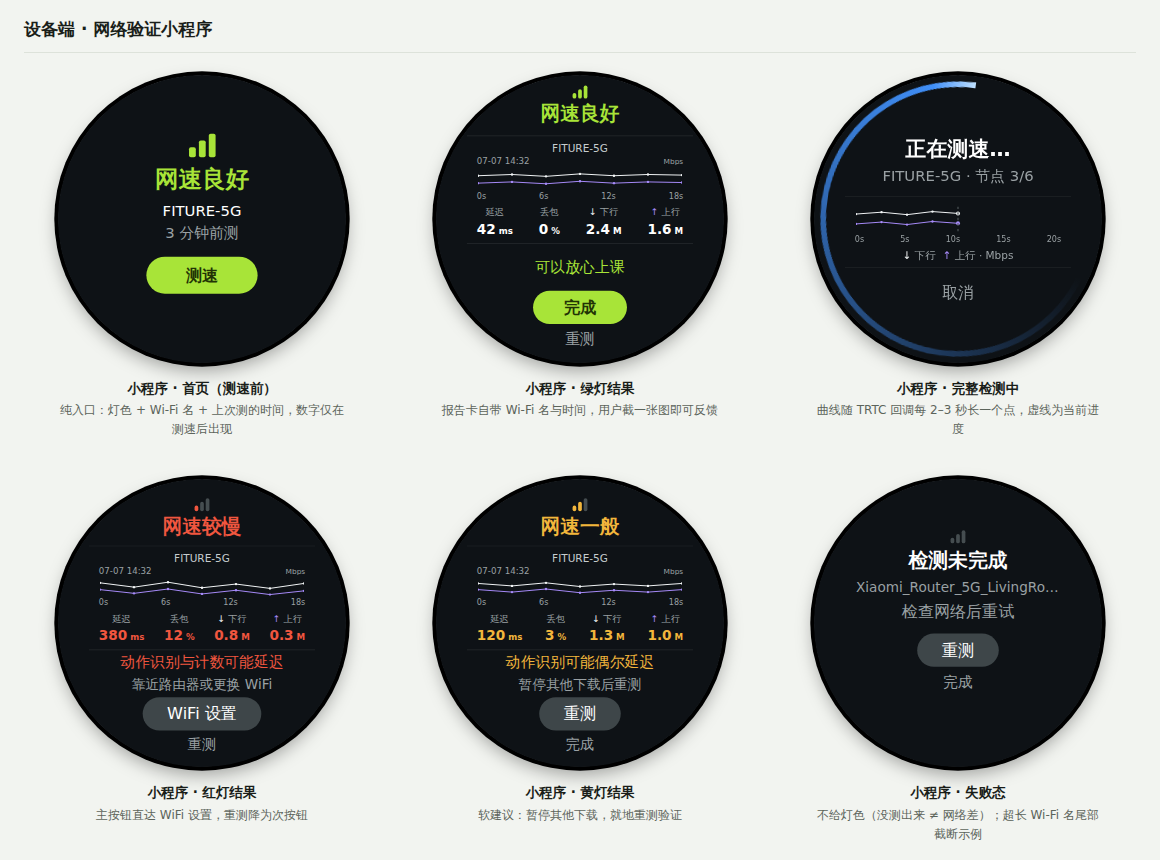
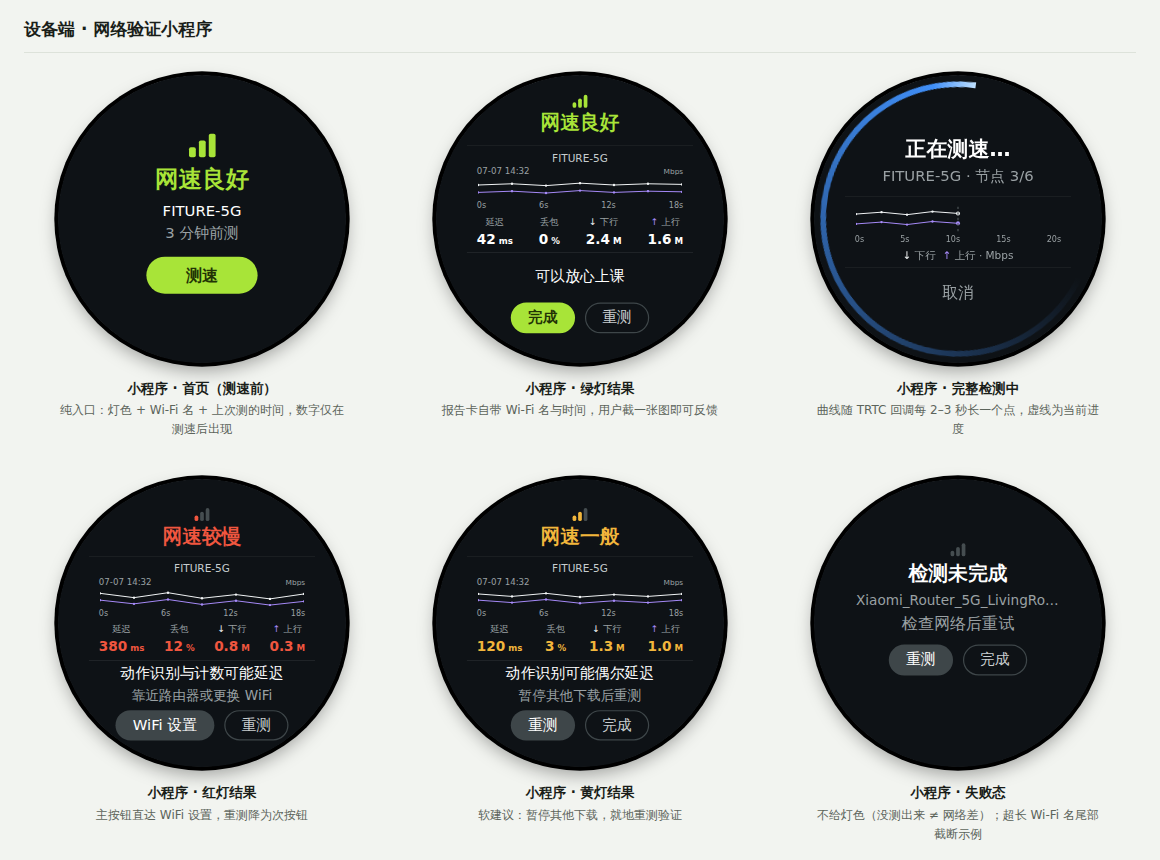
Side-by-side action buttons; impact copy loses its color
- Primary (filled, left) + secondary (ghost outline, right) replace
  the stacked button + text link, saving a row of height; row font 24
  and lifted spacing so the EN "Wi-Fi Settings / Retest" pair clears
  the round bezel
- Impact lines (Ready for class / may-lag warnings) render plain
  white: the colored title already carries the verdict, so color
  stays reserved for the conclusion and out-of-threshold metrics only

Claude-Session: https://claude.ai/code/session_01GK61VJL6HvXSFdCeuPzjiU

diff --git a/Demo-界面交互UI设计.html b/Demo-界面交互UI设计.html
@@ -104,6 +104,10 @@
   .metrics .k { font-size: 22px; color: var(--dev-sub); margin-top: 2px; }
   .advice { font-size: 26px; color: var(--dev-sub); margin-top: 12px; text-align: center; width: 340px; line-height: 1.45; }
   .btn { margin-top: 16px; background: var(--dev-card); border-radius: 99px; font-size: 26px; padding: 12px 42px; }
+  .btn-row { display: flex; gap: 16px; margin-top: 4px; }
+  .btn-row .btn { margin-top: 0; font-size: 24px; padding: 8px 28px; }
+  .btn.ghost { background: transparent; border: 2px solid var(--dev-card); color: #c9ced0; }
+  .btn-row .btn.ghost { padding: 6px 26px; }
   .btn.primary { background: var(--dev-good); color: #223305; font-weight: 600; }
 
   .class-bg { position: absolute; inset: 0; background: radial-gradient(circle at 50% 62%, #24313a 0%, #131a1f 55%, #0e1216 100%); }
@@ -303,10 +307,9 @@
             <div><div class="k"><span style="color:#a78bfa">↑</span> <span data-en="Up">上行</span></div><div class="v">1.6<span> M</span></div></div>
           </div>
           </div>
-        <div class="rc-notes"><div style="font-size:24px; color:var(--dev-good)" data-en="Ready for class">可以放心上课</div></div>
-        <div class="btn primary" style="margin-top:0; padding:9px 50px" data-en="Done">完成</div>
-        <div style="font-size:24px; color:var(--dev-sub); margin-top:8px" data-en="Retest">重测</div>
-        <div style="flex:.66"></div>
+        <div class="rc-notes"><div style="font-size:24px" data-en="Ready for class">可以放心上课</div></div>
+        <div class="btn-row"><div class="btn primary" data-en="Done">完成</div><div class="btn ghost" data-en="Retest">重测</div></div>
+        <div style="flex:.78"></div>
       </div></div>
       <figcaption><b>小程序 · 绿灯结果</b><span>报告卡自带 Wi-Fi 名与时间，用户截一张图即可反馈</span></figcaption>
     </figure>
@@ -341,11 +344,10 @@
             <div><div class="k"><span style="color:#a78bfa">↑</span> <span data-en="Up">上行</span></div><div class="v" style="color:var(--dev-bad)">0.3<span> M</span></div></div>
           </div>
           </div>
-        <div class="rc-notes"><div style="font-size:24px; color:var(--dev-bad)" data-en="Tracking & counting may lag">动作识别与计数可能延迟</div>
+        <div class="rc-notes"><div style="font-size:24px" data-en="Tracking & counting may lag">动作识别与计数可能延迟</div>
         <div class="advice" style="margin-top:3px; font-size:22px; width:370px" data-en="Move closer or switch Wi-Fi">靠近路由器或更换 WiFi</div></div>
-        <div class="btn" style="margin-top:0; padding:9px 40px" data-en="Wi-Fi Settings">WiFi 设置</div>
-        <div style="font-size:23px; color:var(--dev-sub); margin-top:6px" data-en="Retest">重测</div>
-        <div style="flex:.52"></div>
+        <div class="btn-row"><div class="btn" data-en="Wi-Fi Settings">WiFi 设置</div><div class="btn ghost" data-en="Retest">重测</div></div>
+        <div style="flex:.7"></div>
       </div></div>
       <figcaption><b>小程序 · 红灯结果</b><span>主按钮直达 WiFi 设置，重测降为次按钮</span></figcaption>
     </figure>
@@ -364,11 +366,10 @@
             <div><div class="k"><span style="color:#a78bfa">↑</span> <span data-en="Up">上行</span></div><div class="v" style="color:var(--dev-warn)">1.0<span> M</span></div></div>
           </div>
           </div>
-        <div class="rc-notes"><div style="font-size:24px; color:var(--dev-warn)" data-en="Pose tracking may lag at times">动作识别可能偶尔延迟</div>
+        <div class="rc-notes"><div style="font-size:24px" data-en="Pose tracking may lag at times">动作识别可能偶尔延迟</div>
         <div class="advice" style="margin-top:3px; font-size:22px; width:370px" data-en="Pause other downloads, retest">暂停其他下载后重测</div></div>
-        <div class="btn" style="margin-top:0; padding:9px 40px" data-en="Retest">重测</div>
-        <div style="font-size:23px; color:var(--dev-sub); margin-top:6px" data-en="Done">完成</div>
-        <div style="flex:.52"></div>
+        <div class="btn-row"><div class="btn" data-en="Retest">重测</div><div class="btn ghost" data-en="Done">完成</div></div>
+        <div style="flex:.7"></div>
       </div></div>
       <figcaption><b>小程序 · 黄灯结果</b><span>软建议：暂停其他下载，就地重测验证</span></figcaption>
     </figure>
@@ -380,8 +381,7 @@
         <div class="big-status" style="font-size:32px; margin-top:6px" data-en="Test incomplete">检测未完成</div>
         <div style="font-size:22px; color:var(--dev-sub); margin-top:6px; max-width:330px; overflow:hidden; text-overflow:ellipsis; white-space:nowrap">Xiaomi_Router_5G_LivingRoom_2401</div>
         <div class="advice" style="margin-top:4px" data-en="Check network and retry">检查网络后重试</div>
-        <div class="btn" style="margin-top:16px; padding:9px 40px" data-en="Retest">重测</div>
-        <div style="font-size:24px; color:var(--dev-sub); margin-top:9px" data-en="Done">完成</div>
+        <div class="btn-row" style="margin-top:14px"><div class="btn" data-en="Retest">重测</div><div class="btn ghost" data-en="Done">完成</div></div>
         <div style="flex:1"></div>
       </div></div>
       <figcaption><b>小程序 · 失败态</b><span>不给灯色（没测出来 ≠ 网络差）；超长 Wi-Fi 名尾部截断示例</span></figcaption>

diff --git a/PRD-atom网络状态检测与信号同步.md b/PRD-atom网络状态检测与信号同步.md
@@ -118,7 +118,7 @@ ATOM 是一台通过 WiFi 联网的嵌入式训练设备，上课时通过 TRTC 
 
 - **A4.1 首页 = 纯入口（测速前）**：灯色 bars + 一句话结论 + **当前 Wi-Fi 名（SSID）** + 副行数据时效（「刚刚更新」≤60 秒 /「N 分钟前测」≤5 分钟）+ 主按钮「测速」。SSID 必须外显——用户点进来看「网好不好」时往往不知道自己连的是哪个 WiFi，灯色结论必须挂在具体网络名下才可归因（与 B2 按 SSID 缓存一致）。**不展示任何数字指标**——常驻探测没有真实带宽，数字只在测速后出现，「测速前 = 入口、测速后 = 报告」天然可区分；缓存超 5 分钟不显示旧灯色，直接「检测中…」并刷新；
 - **A4.2 检测中**：标题「正在测速…」+ 副行「Wi-Fi: {SSID} · 节点 N / M」（按官方回调驱动，不做假进度）+ 报告卡内波形实时生长（↓ 灰白 = 下行、↑ 紫 = 上行，见 A4.7）+「取消」（调用 `stopSpeedTest`）；按钮防重入（官方限制同一时间仅一个测速任务）；
-- **A4.3 结果页信息分组（四组，组间距 > 组内距）**：① 结论（bars + 一句话，**标题文字直接用灯色着色**——绿「网速良好」/ 黄「网速一般」/ 红「网速较慢」，四态位置与字号完全一致；去掉状态色环后页面需要一个明确的主视觉色，结论标题是最佳载体：位置最高、字号最大、语义即结论；失败态标题保持白色——没测出来不给灯色）→ ② **报告卡**，卡内自上而下：**表头两行——第 1 行 SSID（超长截断）、第 2 行日期时间（独占一行，永不被 SSID 挤掉）**，不加「Wi-Fi:」前缀（上下文已明确，标签属冗余；带日期是为了反馈截图能和后端日志对上，方便 debug）→ 波形定格 + 时间轴（表头第二行两端对齐：**日期时间靠左、单位「Mbps」靠右**——曲线纵轴 = 上下行带宽，不占额外行高；检测中页无表头，单位并入图例行「↓ 下行 ↑ 上行 · Mbps」）→ 四指标一行：延迟 / 丢包 / ↓ 下行 / ↑ 上行，**标签在上、数值在下**（对比过数值在上的方案：标签在上阅读顺序自然「先知道是什么再看多少」、↓↑ 箭头更靠近它解释的曲线、卡片底边收在加粗数值上更稳，与 Ookla 等主流测速工具一致；标签带曲线同色箭头；-1 显示「—」；着色标准见下表）→ ③ 影响 + 建议（绿灯影响行 = 正向一句「可以放心上课」，黄 / 红 = 风险提示；**各固定一行，字数预算：中文 ≤ 14 全角、EN ≤ 30 字符**——这两处是我们自己维护的固定文案集而非动态内容，靠文案表管控长度即可；**不采用跑马灯**：滚动文字在 1–2 米观看距离难读，且截图会截到半句话，破坏「截图即报告」）→ ④ 操作。**影响 / 建议 + 按钮组成固定高度的操作区，主按钮与次按钮的位置在绿 / 黄 / 红 / 失败四态间完全一致**——重测循环里按钮不位移，防误触、建立肌肉记忆。**决策记录**：对比过「按钮沉底 + 报告卡在剩余空间垂直居中」的动态布局——被否，动态居中会让绿灯与黄 / 红灯的报告卡处在不同高度，状态切换跳动、两张截图对不齐；改为绿灯操作区补一句正向文案，空间用满且布局全态一致。**一张报告卡 = 一份完整测速报告，截图即可反馈客服**（截图给人看，上报给系统看）。稳定性派生标签：样本方差超阈值时卡下方显示「网络波动较大」。
+- **A4.3 结果页信息分组（四组，组间距 > 组内距）**：① 结论（bars + 一句话，**标题文字直接用灯色着色**——绿「网速良好」/ 黄「网速一般」/ 红「网速较慢」，四态位置与字号完全一致；去掉状态色环后页面需要一个明确的主视觉色，结论标题是最佳载体：位置最高、字号最大、语义即结论；失败态标题保持白色——没测出来不给灯色）→ ② **报告卡**，卡内自上而下：**表头两行——第 1 行 SSID（超长截断）、第 2 行日期时间（独占一行，永不被 SSID 挤掉）**，不加「Wi-Fi:」前缀（上下文已明确，标签属冗余；带日期是为了反馈截图能和后端日志对上，方便 debug）→ 波形定格 + 时间轴（表头第二行两端对齐：**日期时间靠左、单位「Mbps」靠右**——曲线纵轴 = 上下行带宽，不占额外行高；检测中页无表头，单位并入图例行「↓ 下行 ↑ 上行 · Mbps」）→ 四指标一行：延迟 / 丢包 / ↓ 下行 / ↑ 上行，**标签在上、数值在下**（对比过数值在上的方案：标签在上阅读顺序自然「先知道是什么再看多少」、↓↑ 箭头更靠近它解释的曲线、卡片底边收在加粗数值上更稳，与 Ookla 等主流测速工具一致；标签带曲线同色箭头；-1 显示「—」；着色标准见下表）→ ③ 影响 + 建议（绿灯影响行 = 正向一句「可以放心上课」，黄 / 红 = 风险提示；**影响与建议一律白 / 灰、不着色**——结论标题已带灯色，引导文案再着色就花了，颜色只留给「结论」和「超标指标」两处；**各固定一行，字数预算：中文 ≤ 14 全角、EN ≤ 30 字符**——这两处是我们自己维护的固定文案集而非动态内容，靠文案表管控长度即可；**不采用跑马灯**：滚动文字在 1–2 米观看距离难读，且截图会截到半句话，破坏「截图即报告」）→ ④ 操作：**双按钮左右排列——主按钮在左（实底），次按钮在右（描边 ghost）**，替代上下堆叠（节省约一行高度，页面更舒缓；两按钮并排也更符合圆屏底部的横向空间）。**影响 / 建议 + 按钮组成固定高度的操作区，主 / 次按钮的位置在绿 / 黄 / 红 / 失败四态间完全一致**——重测循环里按钮不位移，防误触、建立肌肉记忆。**决策记录**：对比过「按钮沉底 + 报告卡在剩余空间垂直居中」的动态布局——被否，动态居中会让绿灯与黄 / 红灯的报告卡处在不同高度，状态切换跳动、两张截图对不齐；改为绿灯操作区补一句正向文案，空间用满且布局全态一致。**一张报告卡 = 一份完整测速报告，截图即可反馈客服**（截图给人看，上报给系统看）。稳定性派生标签：样本方差超阈值时卡下方显示「网络波动较大」。
 
   **指标着色标准**（阈值与模块 B4 同源、OTA 可调；数值默认白色，超阈值才变色）：
 
